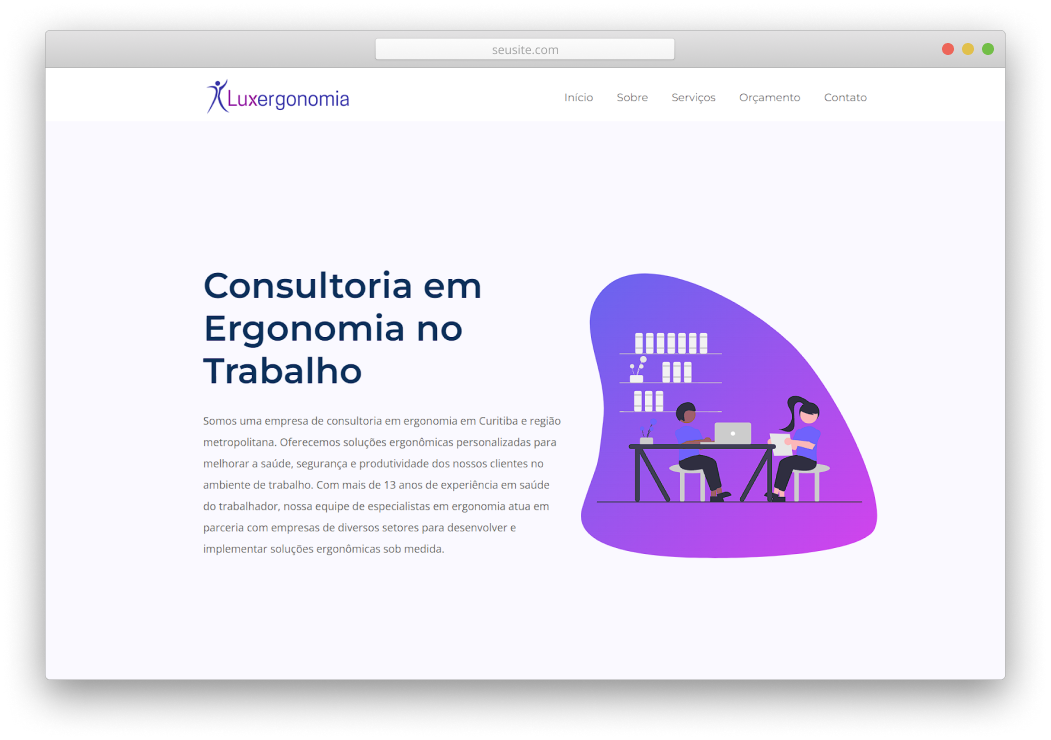
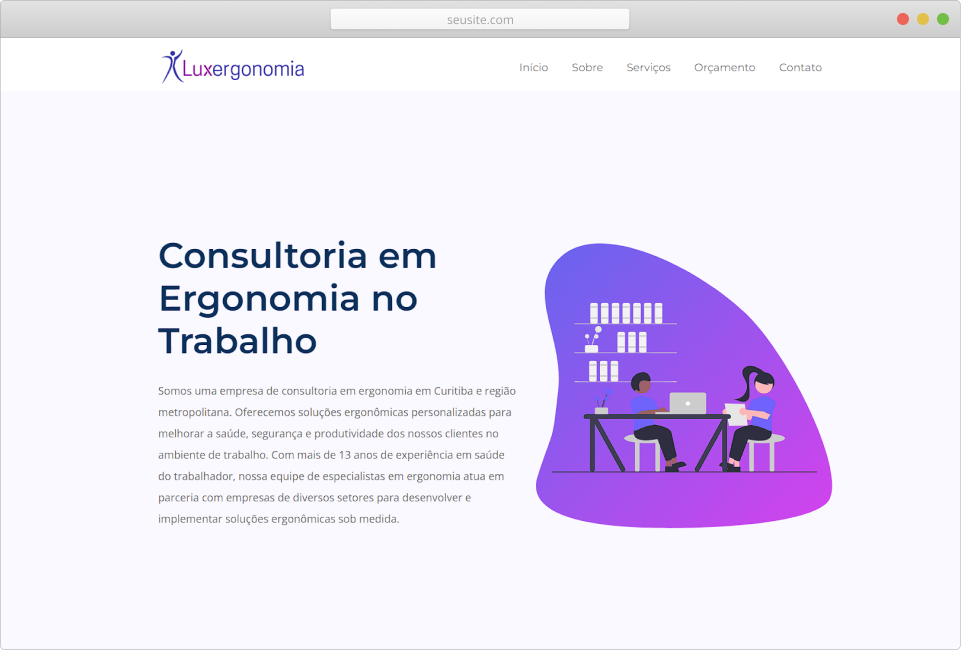
Iniciando Hero

diff --git a/src/Containers/Menu/index.tsx b/src/Containers/Menu/index.tsx
@@ -2,6 +2,7 @@ import React, { useState } from 'react'
 import BotaoMenu from '../../Components/Layouts/BotaoMenu'
 import Logo from '../../Components/Layouts/Logo'
 import { Header, MenuConfig, UlConfig } from './style'
+import Container from '../../Components/Layouts/ContainerEstilo'
 
 const Menu = () => {
   const [activeButton, setActiveButton] = useState<number | null>(null)
@@ -12,62 +13,64 @@ const Menu = () => {
 
   return (
     <Header>
-      <MenuConfig>
-        <div>
-          <h1>
-            <Logo />
-          </h1>
-        </div>
-        <nav>
-          <UlConfig>
-            <li>
-              <BotaoMenu
-                href="#"
-                isActive={activeButton === 0}
-                onClick={() => handleButtonClick(0)}
-              >
-                Início
-              </BotaoMenu>
-            </li>
-            <li>
-              <BotaoMenu
-                href="#"
-                isActive={activeButton === 1}
-                onClick={() => handleButtonClick(1)}
-              >
-                Sobre
-              </BotaoMenu>
-            </li>
-            <li>
-              <BotaoMenu
-                href="#"
-                isActive={activeButton === 2}
-                onClick={() => handleButtonClick(2)}
-              >
-                Vantagens
-              </BotaoMenu>
-            </li>
-            <li>
-              <BotaoMenu
-                href="#"
-                isActive={activeButton === 3}
-                onClick={() => handleButtonClick(3)}
-              >
-                Orçamento
-              </BotaoMenu>
-            </li>
-            <li>
-              <BotaoMenu
-                href="#"
-                isActive={activeButton === 4}
-                onClick={() => handleButtonClick(4)}
-              >
-                Contato
-              </BotaoMenu>
-            </li>
-          </UlConfig>
-        </nav>
-      </MenuConfig>
+      <Container>
+        <MenuConfig>
+          <div>
+            <h1>
+              <Logo />
+            </h1>
+          </div>
+          <nav>
+            <UlConfig>
+              <li>
+                <BotaoMenu
+                  href="#inicio"
+                  isActive={activeButton === 0}
+                  onClick={() => handleButtonClick(0)}
+                >
+                  Início
+                </BotaoMenu>
+              </li>
+              <li>
+                <BotaoMenu
+                  href="#"
+                  isActive={activeButton === 1}
+                  onClick={() => handleButtonClick(1)}
+                >
+                  Sobre
+                </BotaoMenu>
+              </li>
+              <li>
+                <BotaoMenu
+                  href="#"
+                  isActive={activeButton === 2}
+                  onClick={() => handleButtonClick(2)}
+                >
+                  Vantagens
+                </BotaoMenu>
+              </li>
+              <li>
+                <BotaoMenu
+                  href="#"
+                  isActive={activeButton === 3}
+                  onClick={() => handleButtonClick(3)}
+                >
+                  Orçamento
+                </BotaoMenu>
+              </li>
+              <li>
+                <BotaoMenu
+                  href="#"
+                  isActive={activeButton === 4}
+                  onClick={() => handleButtonClick(4)}
+                >
+                  Contato
+                </BotaoMenu>
+              </li>
+            </UlConfig>
+          </nav>
+        </MenuConfig>
+      </Container>
     </Header>
   )
 }

diff --git a/src/Components/Layouts/BotaoMenu/styles.ts b/src/Components/Layouts/BotaoMenu/styles.ts
@@ -5,14 +5,14 @@ type BotaoMenuProps = {
 }
 
 export const BotaoMenuEstilo = styled.a<BotaoMenuProps>`
-  height: 100px;
+  height: 90px;
   padding: 0 24px;
   color: #f9f5e7;
   font-size: 18px;
   font-weight: 300;
   text-decoration: none;
   display: block;
-  line-height: 100px;
+  line-height: 90px;
   position: relative;
   transition: color 0.3s;
 
@@ -21,8 +21,7 @@ export const BotaoMenuEstilo = styled.a<BotaoMenuProps>`
     position: absolute;
     bottom: 0;
     left: 0;
-    width: ${({ isActive }) =>
-      isActive ? '100%' : '0'}; /* Alterado para controlar a largura */
+    width: ${({ isActive }) => (isActive ? '100%' : '0')};
     height: 5px;
     background-color: #ffa928;
     transition: width 0.3s ease-in-out;

diff --git a/src/Containers/Hero/index.tsx b/src/Containers/Hero/index.tsx
@@ -1,3 +1,19 @@
-const Hero = () => <h2>Teste</h2>
+import Container from '../../Components/Layouts/ContainerEstilo'
+import ImgBody from '../../Components/Layouts/ImgBody'
+import { HeroEstilo } from './styles'
+
+type HeroProps = {
+  id: string
+}
+
+const Hero = ({ id }: HeroProps) => {
+  return (
+    <HeroEstilo id={id}>
+      <Container>
+        <ImgBody scr="https://raw.githubusercontent.com/rafasilverios/EBAC-Engenheiro-Front-end/main/M%C3%B3dulo%2020%20-%20Construindo%20e-mails%20com%20HTML/Aulas/images/corpweb-logo.png" />
+      </Container>
+    </HeroEstilo>
+  )
+}
 
 export default Hero

diff --git a/src/App.tsx b/src/App.tsx
@@ -1,14 +1,15 @@
 import EstiloGlobal from './styles'
 import Menu from './Containers/Menu'
-import Container from './Components/Layouts/ContainerEstilo'
-// import Hero from './Containers/Hero'
+// import Container from './Components/Layouts/ContainerEstilo'
+import Hero from './Containers/Hero'
 
 function App() {
   return (
     <>
       <EstiloGlobal />
       <Menu />
-      <Container>{/* <Hero /> */}</Container>
+      <Hero id="inicio" />
+      {/* <Container></Container> */}
     </>
   )
 }

diff --git a/src/Components/Layouts/Logo/index.tsx b/src/Components/Layouts/Logo/index.tsx
@@ -1,7 +1,9 @@
 import { ImgLogo } from './styles'
 
 const Logo = () => (
-  <ImgLogo src="https://raw.githubusercontent.com/rafasilverios/EBAC-Engenheiro-Front-end/main/M%C3%B3dulo%2020%20-%20Construindo%20e-mails%20com%20HTML/Aulas/images/corpweb-logo.png" />
+  <a href="#inicio">
+    <ImgLogo src="https://raw.githubusercontent.com/rafasilverios/Site-Corpweb/main/src/img/logos/corpweb-logo.png?token=GHSAT0AAAAAACC3ZCENCBYTYM4LIUORWZJGZJEJCAA" />
+  </a>
 )
 
 export default Logo

diff --git a/src/Containers/Menu/style.ts b/src/Containers/Menu/style.ts
@@ -7,15 +7,16 @@ export const Header = styled.header`
   right: 0;
   width: 100%;
   z-index: 1;
+  position: fixed;
 `
 
 export const MenuConfig = styled.div`
-  max-width: 1200px;
-  height: 100px;
+  height: 90px;
   display: flex;
   justify-content: space-between;
   align-items: center;
   margin: 0 auto;
+  z-index: 3;
 `
 
 export const UlConfig = styled.ul`

diff --git a/src/Components/Layouts/ContainerEstilo/styles.ts b/src/Components/Layouts/ContainerEstilo/styles.ts
@@ -2,8 +2,8 @@ import styled from 'styled-components'
 
 export const ContainerEstilo = styled.div`
   max-width: 1200px;
+  padding: 0 16px;
   margin: 0 auto;
-  padding: 3px;
 `
 
 export default ContainerEstilo

diff --git a/src/styles.ts b/src/styles.ts
@@ -7,6 +7,10 @@ const EstiloGlobal = createGlobalStyle`
     font-family: 'Inter', sans-serif;
   }
 
+  html {
+    scroll-behavior: smooth;
+  }
+
   .container {
     max-width: 1200px;
     display: flex;

diff --git a/src/Components/Layouts/ImgBody/index.tsx b/src/Components/Layouts/ImgBody/index.tsx
@@ -1,0 +1,11 @@
+import { ImgEstilo } from './styles'
+
+type ImgProps = {
+  scr: string
+}
+
+const ImgBody = ({ scr }: ImgProps) => {
+  return <ImgEstilo src={scr} />
+}
+
+export default ImgBody

diff --git a/src/Containers/Hero/styles.ts b/src/Containers/Hero/styles.ts
@@ -1,0 +1,7 @@
+import styled from 'styled-components'
+
+export const HeroEstilo = styled.section`
+  min-height: 100vh;
+  padding: 5.6vw;
+  background-color: #1d1f21;
+`

diff --git a/src/Components/Layouts/Logo/styles.ts b/src/Components/Layouts/Logo/styles.ts
@@ -2,5 +2,5 @@ import styled from 'styled-components'
 
 export const ImgLogo = styled.img`
   padding-top: 4px;
-  max-height: 70px;
+  max-height: 65px;
 `

diff --git a/src/Components/Layouts/ImgBody/styles.ts b/src/Components/Layouts/ImgBody/styles.ts
@@ -1,0 +1,5 @@
+import styled from 'styled-components'
+
+export const ImgEstilo = styled.img`
+  width: 100%;
+`
